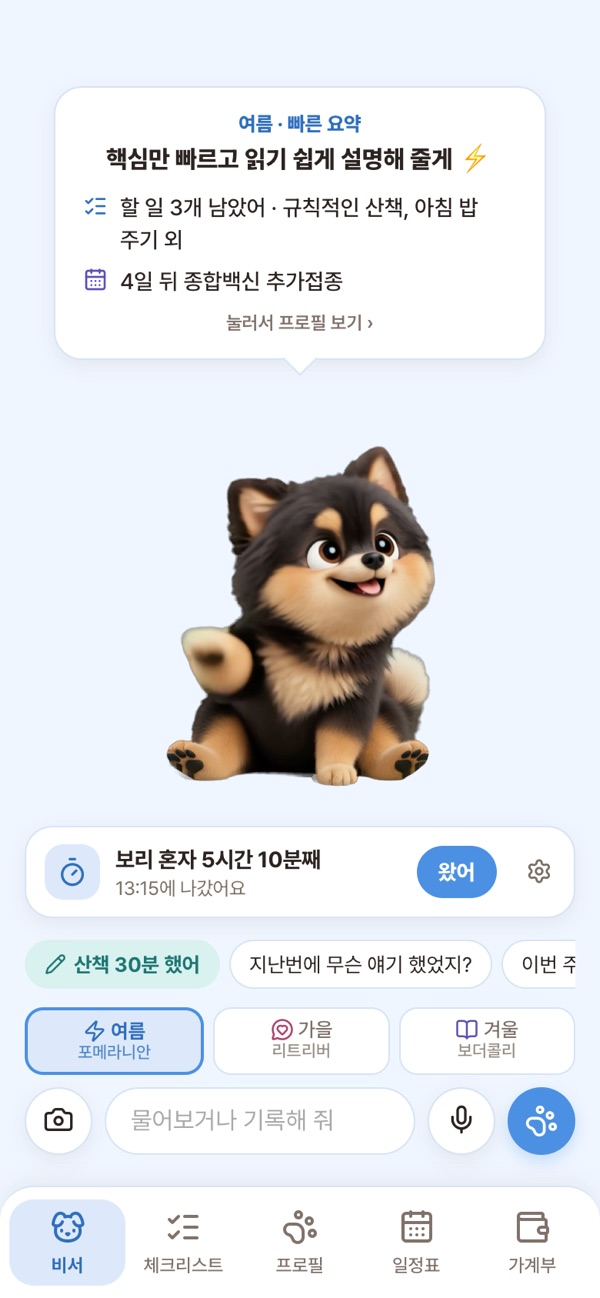
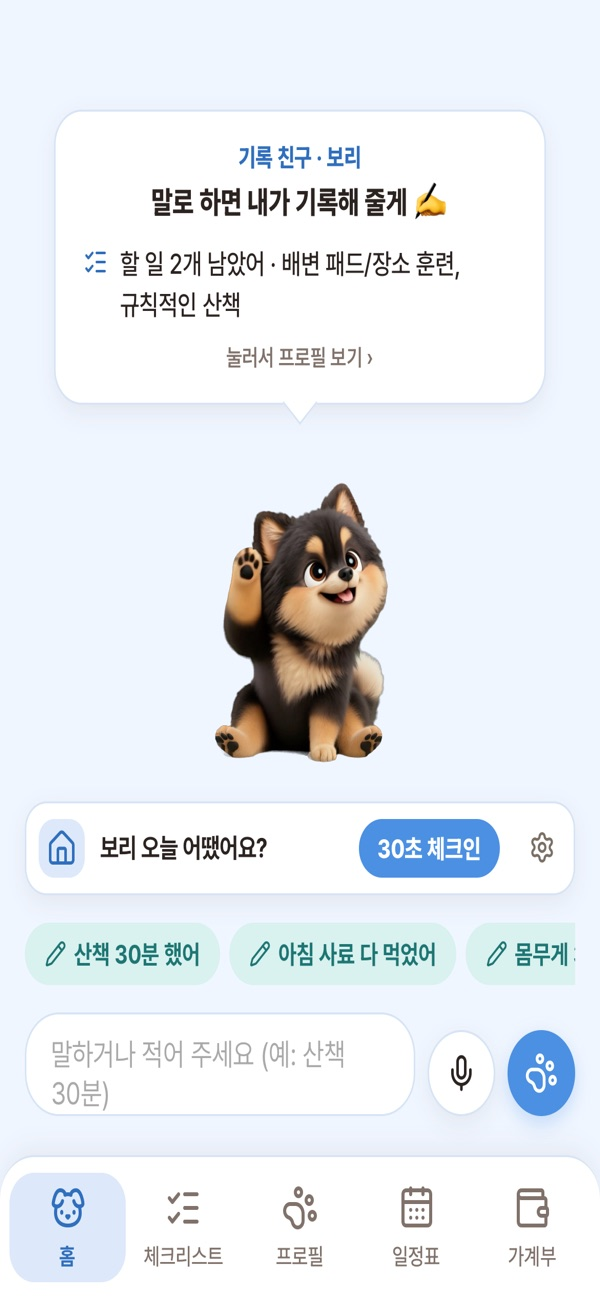
홈페이지 스크린샷 교체(홈 말로 기록·기록 결과·변 체크)

diff --git a/public/intro/guide/index.html b/public/intro/guide/index.html
@@ -68,7 +68,7 @@
             <p class="g-sum">홈은 우리 아이 하루를 말로 남기는 곳이에요. “산책 30분 했어”처럼 말하거나 적으면 알맞은 곳에 알아서 기록돼요.</p>
             <nav class="g-qlist" aria-label="홈 · 말로 기록하기에서 궁금한 것"><a href="#as-home">첫 화면에는 뭐가 보여요?<svg class="ic" aria-hidden="true"><use href="/intro/sprite.svg#i-chev"/></svg></a><a href="#as-outing">강아지 아래 '외출 카드'는 뭐예요?<svg class="ic" aria-hidden="true"><use href="/intro/sprite.svg#i-chev"/></svg></a><a href="#as-checkin">저녁 30초 체크인은 뭐예요?<svg class="ic" aria-hidden="true"><use href="/intro/sprite.svg#i-chev"/></svg></a><a href="#as-record">말로 기록하는 건 어떻게 해요?<svg class="ic" aria-hidden="true"><use href="/intro/sprite.svg#i-chev"/></svg></a><a href="#as-voice">말로 해도 돼요?<svg class="ic" aria-hidden="true"><use href="/intro/sprite.svg#i-chev"/></svg></a><a href="#as-fix">잘못 적었으면 어떻게 고쳐요?<svg class="ic" aria-hidden="true"><use href="/intro/sprite.svg#i-chev"/></svg></a><a href="#as-ask">궁금한 걸 적으면 어떻게 돼요?<svg class="ic" aria-hidden="true"><use href="/intro/sprite.svg#i-chev"/></svg></a><a href="#as-emergency">급한 일이면요?<svg class="ic" aria-hidden="true"><use href="/intro/sprite.svg#i-chev"/></svg></a><a href="#as-safe">멍케어가 진료를 해 주나요?<svg class="ic" aria-hidden="true"><use href="/intro/sprite.svg#i-chev"/></svg></a></nav>
           </div>
-          <figure class="g-sec-shot"><img src="/intro/img/assistant.jpg?v=2" alt="홈 화면 예시" width="300" height="649" loading="lazy" /><figcaption>예시 화면</figcaption></figure>
+          <figure class="g-sec-shot"><img src="/intro/img/assistant.jpg?v=3" alt="홈 화면 예시" width="300" height="649" loading="lazy" /><figcaption>예시 화면</figcaption></figure>
         </header>
         <article class="g-q" id="as-home"><h3>첫 화면에는 뭐가 보여요?</h3><p>강아지가 말풍선으로 <b>오늘 요약</b>을 알려 줘요.</p><ol class="g-steps"><li>오늘 남은 할 일</li><li>다음에 먹일 약</li><li>7일 안에 있는 일정</li></ol><p>말풍선을 누르면 프로필로 가요. 아래 입력칸에 말하거나 적으면 기록이 돼요.</p></article><article class="g-q" id="as-outing"><h3>강아지 아래 '외출 카드'는 뭐예요?</h3><p>밖에 있는 시간이 긴 분을 위한 카드예요. 아침에 한 번, 저녁에 한 번만 누르면 돼요.</p><ol class="g-steps"><li>나갈 때 <b>[다녀올게]</b>를 눌러요. 카드에 <b>“보리 혼자 3시간째”</b>처럼 혼자 있는 시간이 보여요.</li><li>들어오면 <b>[왔어]</b>를 눌러요. 오늘 혼자 있던 시간과 짧은 돌봄 제안이 나와요.</li><li><b>[30초 체크인]</b>으로 오늘 하루를 기록해요.</li></ol><p class="g-tip"><svg class="ic" aria-hidden="true"><use href="/intro/sprite.svg#i-sparkles"/></svg><span><b>알아 두면 좋아요</b> 처음 [다녀올게]를 누르면 <b>평소 외출 시간</b>을 물어봐요. 정해 두면 버튼을 깜빡한 날도 시간을 어림하고, 들어오는 시각 30분 뒤에 체크인 알림이 와요. 나중에 카드 오른쪽 <b>톱니바퀴</b>에서 바꿀 수 있어요.</span></p></article><article class="g-q" id="as-checkin"><h3>저녁 30초 체크인은 뭐예요?</h3><p>버튼만 눌러서 오늘 하루를 한 번에 기록해요. <b>본 것만</b> 누르면 되고, 안 누른 건 기록하지 않아요.</p><dl class="g-table"><div><dt>밥</dt><dd>다 먹었어 / 남겼어 / 안 먹었어</dd></div><div><dt>대변·소변</dt><dd>정상 / 무름 / 설사 / 실수했어 / 못 봤어</dd></div><div><dt>이상한 점</dt><dd>토했어 / 기운 없어 / 물건 망가뜨림 / 많이 짖었대요</dd></div><div><dt>산책</dt><dd>못 했어 / 10분 ~ 1시간</dd></div></dl><p>누른 것은 <b>프로필 건강 기록</b>에 직접 적은 것과 똑같이 저장돼요. 산책을 누르면 체크리스트의 산책도 완료돼요.</p><p class="g-tip"><svg class="ic" aria-hidden="true"><use href="/intro/sprite.svg#i-sparkles"/></svg><span><b>알아 두면 좋아요</b> 체크인을 마치면 완료 표시는 체크리스트 위로 옮겨 가요. 잘못 누른 건 건강 기록에서 고쳐요. 걱정되는 모습이 계속되면 동물병원에 연락해 주세요.</span></p></article><article class="g-q" id="as-record"><h3>말로 기록하는 건 어떻게 해요?</h3><p>친구한테 말하듯 쓰면 돼요. AI가 문장을 기록으로 바꿔서 <b>알맞은 곳에 저장</b>해요. 이렇게 말해 보세요.</p><dl class="g-table"><div><dt>“산책 30분 했어”</dt><dd>건강 수치(산책)</dd></div><div><dt>“사료 3만 원 샀어”</dt><dd>가계부</dd></div><div><dt>“내일 3시 미용 예약”</dt><dd>일정표</dd></div><div><dt>“몸무게 3.2kg 됐어”</dt><dd>체중 기록</dd></div><div><dt>“아침에 노란 토 했어”</dt><dd>건강 기록(증상)</dd></div><div><dt>“병원 다녀왔어, 진료비 8만 원”</dt><dd>병원 진료 기록 + 가계부</dd></div><div><dt>“매달 25일 펫보험 3만 원 나가”</dt><dd>매달 나가는 돈</dd></div><div><dt>“심장약 먹였어”</dt><dd>약 먹인 기록</dd></div></dl><p>저장하면 <b>'앱에 기록했어요'</b>가 나오고, 강아지가 <b>귀여운 한마디와 짧은 팁</b>을 남겨 줘요.</p><p class="g-tip"><svg class="ic" aria-hidden="true"><use href="/intro/sprite.svg#i-sparkles"/></svg><span><b>알아 두면 좋아요</b> 분류가 애매하면 <b>'어느 분류로 적을까요?'</b> 하고 버튼을 보여 줘요. 누르기만 하면 돼요.</span></p></article><article class="g-q" id="as-voice"><h3>말로 해도 돼요?</h3><p>네. 입력칸의 <b>🎤 마이크 버튼</b>을 누르고 말하면 글자로 바뀌어서 기록돼요.</p></article><article class="g-q" id="as-fix"><h3>잘못 적었으면 어떻게 고쳐요?</h3><p>“아까 사료값 3만 5천 원이었어”처럼 말하면 돼요. <b>[고치기] 버튼</b>이 나오고, 누르면 고쳐져요. 지울 때도 똑같이 <b>[지우기] 버튼</b>을 눌러야 지워져요.</p><p class="g-note"><svg class="ic" aria-hidden="true"><use href="/intro/sprite.svg#i-lock"/></svg><span>약을 새로 등록하거나 용량을 바꾸는 건 AI가 하지 않아요. 약 관리에서 처방대로 직접 넣어 주세요.</span></p></article><article class="g-q" id="as-ask"><h3>궁금한 걸 적으면 어떻게 돼요?</h3><p>AI가 답을 지어내지 않아요. 대신 맞는 <b>정보 카드</b>와 <b>가이드북</b> 내용을 찾아 보여 줘요.</p><div class="g-ex"><p class="g-ex-label">이렇게 적어 보세요</p><span>“밥은 하루에 얼마나 줘야 해?”</span><span>“예방접종은 언제 해?”</span><span>“양치는 어떻게 해?”</span></div><p>정보 카드는 <b>WSAVA·Merck 수의학 매뉴얼 같은 공개 수의학 자료</b>를 바탕으로 만들고, 사실을 하나씩 확인한 일반 참고 정보예요.</p></article><article class="g-q" id="as-emergency"><h3>급한 일이면요?</h3><p>초콜릿·포도·자일리톨을 먹었다거나, 경련, 숨쉬기 이상 같은 말이 보이면 <b>“지금 바로 동물병원에 연락하세요”</b>가 먼저 나오고, <b>24시 동물병원 찾기</b> 링크를 보여 줘요.</p><p class="g-note"><svg class="ic" aria-hidden="true"><use href="/intro/sprite.svg#i-lock"/></svg><span>급할 땐 앱보다 동물병원 전화가 먼저예요. 다니는 병원 번호를 미리 저장해 두세요.</span></p></article><article class="g-q" id="as-safe"><h3>멍케어가 진료를 해 주나요?</h3><p class="g-note"><svg class="ic" aria-hidden="true"><use href="/intro/sprite.svg#i-lock"/></svg><span>아니요. 멍케어는 <b>진료(진찰·진단·처방·치료)를 하지 않아요.</b> 기록과 정보를 챙겨 주는 앱이에요. AI는 말한 문장을 기록으로 바꾸고, 보호자가 고른 사진·영상을 참고용으로 확인하는 데만 써요.</span></p><p class="g-tip"><svg class="ic" aria-hidden="true"><use href="/intro/sprite.svg#i-sparkles"/></svg><span><b>알아 두면 좋아요</b> AI 기능을 처음 쓸 때, 기록하려고 말한 문장·음성이나 확인을 고른 사진·영상을 AI 회사로 보내도 되는지 먼저 물어봐요. 동의하지 않으면 보내지 않아요.</span></p></article>
         <a class="g-next" href="#checklist"><span>다음</span><b>체크리스트</b><svg class="ic" aria-hidden="true"><use href="/intro/sprite.svg#i-chev"/></svg></a>
@@ -83,7 +83,7 @@
           </div>
           <figure class="g-sec-shot"><img src="/intro/img/checklist.jpg" alt="체크리스트 화면 예시" width="300" height="649" loading="lazy" /><figcaption>예시 화면</figcaption></figure>
         </header>
-        <article class="g-q" id="ck-today"><h3>오늘 할 일은 누가 정해요?</h3><p>멍케어가 <b>우리 아이 나이와 견종</b>을 보고 정해요. 예를 들어 아기 강아지는 사회화·배변 훈련, 다 큰 강아지는 산책·목욕 같은 일이 나와요.</p><p>다 한 일은 <b>체크</b>하세요. 위쪽 동그라미가 얼마나 했는지 보여 줘요.</p></article><article class="g-q" id="ck-hide"><h3>필요 없는 할 일은 지울 수 있어요?</h3><p>할 일 오른쪽 <b>'숨기기'</b>를 누르면 안 보여요. 다시 보고 싶으면 카드 아래 <b>'숨긴 할 일'</b>에서 '다시 보이기'를 누르세요.</p></article><article class="g-q" id="ck-auto"><h3>체크 안 했는데 완료됐어요</h3><p>산책을 기록하면 <b>산책 할 일은 저절로 완료</b>돼요. 두 번 체크하지 않아도 되게 한 거예요.</p></article><article class="g-q" id="ck-meal"><h3>밥 시간은 어떻게 정해요?</h3><ol class="g-steps"><li>체크리스트 위 <b>사료 계산기</b>를 눌러요.</li><li><b>급여 시각</b>을 넣고 저장해요. (예: 08:00, 18:00)</li><li>이제 '아침 밥 주기', '저녁 밥 주기'가 할 일로 생기고, 그 시간에 알림이 와요.</li></ol></article><article class="g-q" id="ck-week"><h3>'이번 주 핵심'은 뭐예요?</h3><p>이번 주에 특히 챙기면 좋은 관리를 알려 줘요. 아래 <b>'곧 시작하는 관리'</b>는 몇 주 뒤부터 필요한 일을 미리 알려 줘요.</p></article><article class="g-q" id="ck-health"><h3>건강 체크는 뭐예요?</h3><figure class="g-shot"><img src="/intro/img/healthcheck.jpg" alt="건강 체크 화면 예시" width="300" height="649" loading="lazy" /><figcaption>건강 체크 화면 예시</figcaption></figure><dl class="g-table"><div><dt>변 체크</dt><dd>변 <b>모양(1~7)·색·신호</b>를 보호자가 직접 골라 기록해요.</dd></div><div><dt>컨디션 체크</dt><dd><b>컨디션 항목</b>을 보호자가 직접 골라 기록해요.</dd></div></dl><p>기본은 직접 고르기이고 무료예요. 원하면 <b>'AI로 사진·영상 확인'</b>을 눌러 보이는 모습을 참고용으로 정리받을 수 있어요(하루 2번).</p><p>고른 내용에 따라 <b>'이럴 땐 병원에 연락'</b> 안내가 함께 나와요. 정해진 기준에 따라 보여 주는 안내예요.</p><p class="g-note"><svg class="ic" aria-hidden="true"><use href="/intro/sprite.svg#i-lock"/></svg><span>병명을 판단하지 않는 참고용이에요. 걱정되면 동물병원에 연락해 주세요.</span></p></article><article class="g-q" id="ck-feed"><h3>사료 계산기는 어떻게 써요?</h3><figure class="g-shot"><img src="/intro/img/feeding.jpg" alt="사료 계산기 화면 예시" width="300" height="649" loading="lazy" /><figcaption>사료 계산기 화면 예시</figcaption></figure><ol class="g-steps"><li>나이·몸무게로 <b>하루 급여량</b>과 <b>한 끼 양</b>을 계산해 줘요. 큰술로도 알려 줘요.</li><li><b>먹이는 사료</b>에 이름을 넣고 '정보 찾기'를 누르면 열량을 찾아 줘요.</li><li>가장 정확한 건 <b>사료 봉투 뒷면 사진</b>이에요. 찍으면 적힌 열량을 읽어 와요.</li><li>변이 무르거나 단단하면 '배변 상태'를 고르세요. 계산에 반영돼요.</li></ol><p class="g-tip"><svg class="ic" aria-hidden="true"><use href="/intro/sprite.svg#i-sparkles"/></svg><span><b>알아 두면 좋아요</b> 어린 강아지는 밥 시간 30분 전에 '사료 불리기' 알림도 와요.</span></p></article><article class="g-q" id="ck-food"><h3>사료가 떨어지기 전에 알려 줘요?</h3><p>네. 사료 계산기의 <b>사료 남은 양</b>에서 봉투 무게를 고르고 <b>[오늘 새 봉투 뜯었어요]</b>를 누르세요. 하루 급여량으로 나눠 <b>“약 25일 남았어요”</b>처럼 보여 줘요.</p><ol class="g-steps"><li>7일 안으로 남으면 체크리스트 맨 위에 알림 띠가 떠요.</li><li>떨어지기 <b>5일 전 점심(12:30)</b>에 “주문해 둘까요?” 알림이 와요.</li><li><b>하루 전 점심</b>에 한 번 더 알려 줘요.</li></ol><p class="g-tip"><svg class="ic" aria-hidden="true"><use href="/intro/sprite.svg#i-sparkles"/></svg><span><b>알아 두면 좋아요</b> 간식·흘린 양은 빼고 계산한 어림이에요. 새 봉투를 뜯을 때마다 버튼을 눌러 주세요.</span></p></article><article class="g-q" id="ck-alarm"><h3>알림·알람은 어떻게 맞춰요?</h3><figure class="g-shot"><img src="/intro/img/alarms.jpg" alt="알림·알람 화면 예시" width="300" height="649" loading="lazy" /><figcaption>알림·알람 화면 예시</figcaption></figure><ol class="g-steps"><li><b>알림 켜기</b>를 눌러 알림을 허락해요.</li><li><b>새 알람 추가</b>에 제목과 시각을 넣어요.</li><li><b>매일</b> 울릴지, <b>하루만</b> 울릴지 골라요.</li></ol><p class="g-tip"><svg class="ic" aria-hidden="true"><use href="/intro/sprite.svg#i-sparkles"/></svg><span><b>알아 두면 좋아요</b> 아이폰은 홈 화면에 설치한 멍케어에서만 알림이 와요. 소리는 휴대폰 알림음을 따라요.</span></p></article>
+        <article class="g-q" id="ck-today"><h3>오늘 할 일은 누가 정해요?</h3><p>멍케어가 <b>우리 아이 나이와 견종</b>을 보고 정해요. 예를 들어 아기 강아지는 사회화·배변 훈련, 다 큰 강아지는 산책·목욕 같은 일이 나와요.</p><p>다 한 일은 <b>체크</b>하세요. 위쪽 동그라미가 얼마나 했는지 보여 줘요.</p></article><article class="g-q" id="ck-hide"><h3>필요 없는 할 일은 지울 수 있어요?</h3><p>할 일 오른쪽 <b>'숨기기'</b>를 누르면 안 보여요. 다시 보고 싶으면 카드 아래 <b>'숨긴 할 일'</b>에서 '다시 보이기'를 누르세요.</p></article><article class="g-q" id="ck-auto"><h3>체크 안 했는데 완료됐어요</h3><p>산책을 기록하면 <b>산책 할 일은 저절로 완료</b>돼요. 두 번 체크하지 않아도 되게 한 거예요.</p></article><article class="g-q" id="ck-meal"><h3>밥 시간은 어떻게 정해요?</h3><ol class="g-steps"><li>체크리스트 위 <b>사료 계산기</b>를 눌러요.</li><li><b>급여 시각</b>을 넣고 저장해요. (예: 08:00, 18:00)</li><li>이제 '아침 밥 주기', '저녁 밥 주기'가 할 일로 생기고, 그 시간에 알림이 와요.</li></ol></article><article class="g-q" id="ck-week"><h3>'이번 주 핵심'은 뭐예요?</h3><p>이번 주에 특히 챙기면 좋은 관리를 알려 줘요. 아래 <b>'곧 시작하는 관리'</b>는 몇 주 뒤부터 필요한 일을 미리 알려 줘요.</p></article><article class="g-q" id="ck-health"><h3>건강 체크는 뭐예요?</h3><figure class="g-shot"><img src="/intro/img/healthcheck.jpg?v=3" alt="건강 체크 화면 예시" width="300" height="649" loading="lazy" /><figcaption>건강 체크 화면 예시</figcaption></figure><dl class="g-table"><div><dt>변 체크</dt><dd>변 <b>모양(1~7)·색·신호</b>를 보호자가 직접 골라 기록해요.</dd></div><div><dt>컨디션 체크</dt><dd><b>컨디션 항목</b>을 보호자가 직접 골라 기록해요.</dd></div></dl><p>기본은 직접 고르기이고 무료예요. 원하면 <b>'AI로 사진·영상 확인'</b>을 눌러 보이는 모습을 참고용으로 정리받을 수 있어요(하루 2번).</p><p>고른 내용에 따라 <b>'이럴 땐 병원에 연락'</b> 안내가 함께 나와요. 정해진 기준에 따라 보여 주는 안내예요.</p><p class="g-note"><svg class="ic" aria-hidden="true"><use href="/intro/sprite.svg#i-lock"/></svg><span>병명을 판단하지 않는 참고용이에요. 걱정되면 동물병원에 연락해 주세요.</span></p></article><article class="g-q" id="ck-feed"><h3>사료 계산기는 어떻게 써요?</h3><figure class="g-shot"><img src="/intro/img/feeding.jpg" alt="사료 계산기 화면 예시" width="300" height="649" loading="lazy" /><figcaption>사료 계산기 화면 예시</figcaption></figure><ol class="g-steps"><li>나이·몸무게로 <b>하루 급여량</b>과 <b>한 끼 양</b>을 계산해 줘요. 큰술로도 알려 줘요.</li><li><b>먹이는 사료</b>에 이름을 넣고 '정보 찾기'를 누르면 열량을 찾아 줘요.</li><li>가장 정확한 건 <b>사료 봉투 뒷면 사진</b>이에요. 찍으면 적힌 열량을 읽어 와요.</li><li>변이 무르거나 단단하면 '배변 상태'를 고르세요. 계산에 반영돼요.</li></ol><p class="g-tip"><svg class="ic" aria-hidden="true"><use href="/intro/sprite.svg#i-sparkles"/></svg><span><b>알아 두면 좋아요</b> 어린 강아지는 밥 시간 30분 전에 '사료 불리기' 알림도 와요.</span></p></article><article class="g-q" id="ck-food"><h3>사료가 떨어지기 전에 알려 줘요?</h3><p>네. 사료 계산기의 <b>사료 남은 양</b>에서 봉투 무게를 고르고 <b>[오늘 새 봉투 뜯었어요]</b>를 누르세요. 하루 급여량으로 나눠 <b>“약 25일 남았어요”</b>처럼 보여 줘요.</p><ol class="g-steps"><li>7일 안으로 남으면 체크리스트 맨 위에 알림 띠가 떠요.</li><li>떨어지기 <b>5일 전 점심(12:30)</b>에 “주문해 둘까요?” 알림이 와요.</li><li><b>하루 전 점심</b>에 한 번 더 알려 줘요.</li></ol><p class="g-tip"><svg class="ic" aria-hidden="true"><use href="/intro/sprite.svg#i-sparkles"/></svg><span><b>알아 두면 좋아요</b> 간식·흘린 양은 빼고 계산한 어림이에요. 새 봉투를 뜯을 때마다 버튼을 눌러 주세요.</span></p></article><article class="g-q" id="ck-alarm"><h3>알림·알람은 어떻게 맞춰요?</h3><figure class="g-shot"><img src="/intro/img/alarms.jpg" alt="알림·알람 화면 예시" width="300" height="649" loading="lazy" /><figcaption>알림·알람 화면 예시</figcaption></figure><ol class="g-steps"><li><b>알림 켜기</b>를 눌러 알림을 허락해요.</li><li><b>새 알람 추가</b>에 제목과 시각을 넣어요.</li><li><b>매일</b> 울릴지, <b>하루만</b> 울릴지 골라요.</li></ol><p class="g-tip"><svg class="ic" aria-hidden="true"><use href="/intro/sprite.svg#i-sparkles"/></svg><span><b>알아 두면 좋아요</b> 아이폰은 홈 화면에 설치한 멍케어에서만 알림이 와요. 소리는 휴대폰 알림음을 따라요.</span></p></article>
         <a class="g-next" href="#profile"><span>다음</span><b>프로필</b><svg class="ic" aria-hidden="true"><use href="/intro/sprite.svg#i-chev"/></svg></a>
       </section>
       <section class="g-sec" id="profile" aria-labelledby="profile-t">

diff --git a/public/intro/index.html b/public/intro/index.html
@@ -93,7 +93,7 @@
         <div class="demo" id="demo">
           <p class="demo-hint" aria-hidden="true"><span class="hand">👆</span> 아래 탭을 눌러 보세요</p>
           <div class="phone demo-phone">
-            <div class="screens"><img class="scr on" src="/intro/img/assistant.jpg?v=2" alt="" width="300" height="649" fetchpriority="high" /><img class="scr" src="/intro/img/checklist.jpg" alt="" width="300" height="649" loading="lazy" /><img class="scr" src="/intro/img/profile.jpg" alt="" width="300" height="649" loading="lazy" /><img class="scr" src="/intro/img/calendar.jpg" alt="" width="300" height="649" loading="lazy" /><img class="scr" src="/intro/img/budget.jpg" alt="" width="300" height="649" loading="lazy" /></div>
+            <div class="screens"><img class="scr on" src="/intro/img/assistant.jpg?v=3" alt="" width="300" height="649" fetchpriority="high" /><img class="scr" src="/intro/img/checklist.jpg" alt="" width="300" height="649" loading="lazy" /><img class="scr" src="/intro/img/profile.jpg" alt="" width="300" height="649" loading="lazy" /><img class="scr" src="/intro/img/calendar.jpg" alt="" width="300" height="649" loading="lazy" /><img class="scr" src="/intro/img/budget.jpg" alt="" width="300" height="649" loading="lazy" /></div>
             <span class="tag">간략 미리보기</span>
             <div class="nav-glow" aria-hidden="true"><span>여기를 눌러 보세요</span></div>
             <div class="hots" role="tablist" aria-label="멍케어 기능 둘러보기"><button type="button" role="tab" id="tab-assistant" class="hot" aria-selected="true" aria-controls="panel-assistant" tabindex="0"><span class="sr">홈(말로 기록) 기능 설명 보기</span><i class="ping" aria-hidden="true"></i></button><button type="button" role="tab" id="tab-checklist" class="hot" aria-selected="false" aria-controls="panel-checklist" tabindex="-1"><span class="sr">체크리스트 기능 설명 보기</span><i class="ping" aria-hidden="true"></i></button><button type="button" role="tab" id="tab-profile" class="hot" aria-selected="false" aria-controls="panel-profile" tabindex="-1"><span class="sr">프로필 기능 설명 보기</span><i class="ping" aria-hidden="true"></i></button><button type="button" role="tab" id="tab-calendar" class="hot" aria-selected="false" aria-controls="panel-calendar" tabindex="-1"><span class="sr">일정표 기능 설명 보기</span><i class="ping" aria-hidden="true"></i></button><button type="button" role="tab" id="tab-budget" class="hot" aria-selected="false" aria-controls="panel-budget" tabindex="-1"><span class="sr">가계부 기능 설명 보기</span><i class="ping" aria-hidden="true"></i></button></div>
@@ -121,7 +121,7 @@
               <div class="svc-dogs"><p class="svc-dogs-title">멍케어를 안내하는 세 친구</p><div class="svc-dogcard"><img src="/intro/img/dog-yeoreum-sit.png" alt="포메라니안 여름" width="120" height="120" loading="lazy" /><div><p class="svc-dogname">여름 <span>포메라니안</span></p><p class="svc-dogrole">기록 담당</p><p>말로 한 기록을 반겨 줘요.</p></div></div><div class="svc-dogcard"><img src="/intro/img/dog-gaeul-sit.png" alt="리트리버 가을" width="120" height="120" loading="lazy" /><div><p class="svc-dogname">가을 <span>리트리버</span></p><p class="svc-dogrole">할 일 담당</p><p>오늘 챙길 일을 알려 줘요.</p></div></div><div class="svc-dogcard"><img src="/intro/img/dog-gyeoul-sit.png" alt="보더콜리 겨울" width="120" height="120" loading="lazy" /><div><p class="svc-dogname">겨울 <span>보더콜리</span></p><p class="svc-dogrole">건강 기록 담당</p><p>병원에 보여 줄 기록을 챙겨요.</p></div></div></div>
               <p class="svc-note">정보 카드는 WSAVA·Merck 수의학 매뉴얼 같은 공개 수의학 자료를 바탕으로 만들고 사실을 확인한 일반 참고 정보예요. AI는 질문에 답하지 않고, 말한 문장을 기록으로 바꾸는 데만 써요. 응급일 수 있는 말이 보이면 24시 동물병원 찾기를 먼저 보여 드려요.</p>
             </div>
-            <div class="svc-shots"><figure class="phone mini"><img src="/intro/img/assistant.jpg?v=2" alt="홈 화면 예시" width="300" height="649" loading="lazy" /></figure><figure class="phone mini"><img src="/intro/img/chat.jpg" alt="홈 화면 예시" width="300" height="649" loading="lazy" /></figure><span class="tag">예시 화면</span></div>
+            <div class="svc-shots"><figure class="phone mini"><img src="/intro/img/assistant.jpg?v=3" alt="홈 화면 예시" width="300" height="649" loading="lazy" /></figure><figure class="phone mini"><img src="/intro/img/chat.jpg?v=3" alt="홈 화면 예시" width="300" height="649" loading="lazy" /></figure><span class="tag">예시 화면</span></div>
             <div class="svc-foot">
               <a class="btn btn-lg btn-ghost" href="/intro/guide/#assistant"><svg class="ic" aria-hidden="true"><use href="/intro/sprite.svg#i-book"/></svg>자세한 설명서 보기</a>
               <button type="button" class="btn btn-lg svc-back">휴대폰으로 돌아가기</button>
@@ -138,7 +138,7 @@
             </div>
             <div class="svc-body">
               <ul class="svc-cards"><li><b>나이·견종 맞춤 할 일</b><span>오늘 할 일과 <b>이번 주 핵심</b>이 체크리스트로 나와요. 필요 없는 건 숨길 수 있어요.</span></li><li><b>기록하면 저절로 완료</b><span>산책을 기록하면 산책 할 일은 따로 체크하지 않아도 완료돼요.</span></li></ul>
-              <div class="svc-spots"><div class="spot"><figure class="phone mini"><img src="/intro/img/healthcheck.jpg" alt="건강 체크 화면 예시" width="300" height="649" loading="lazy" /><span class="tag">예시 화면</span></figure><div><b>건강 체크</b><p><b>변 체크</b>는 모양(1~7)·색·신호를, <b>컨디션 체크</b>는 항목을 보호자가 직접 골라요. 원하면 사진·영상을 AI로 확인할 수 있고(참고용), 병원에 연락할 신호면 먼저 알려 줘요.</p></div></div><div class="spot"><figure class="phone mini"><img src="/intro/img/feeding.jpg" alt="사료 계산기 화면 예시" width="300" height="649" loading="lazy" /><span class="tag">예시 화면</span></figure><div><b>사료 계산기</b><p>나이·몸무게로 <b>하루 급여량</b>을 계산하고, 사료 봉투 사진으로 열량을 읽어 와요. 밥 시간을 정하면 할 일과 알림이 생겨요.</p></div></div><div class="spot"><figure class="phone mini"><img src="/intro/img/alarms.jpg" alt="알림·알람 화면 예시" width="300" height="649" loading="lazy" /><span class="tag">예시 화면</span></figure><div><b>알림·알람</b><p>약·밥·산책처럼 <b>원하는 시간에 알림</b>을 받아요. 하루만 울리는 알람도 만들 수 있어요.</p></div></div></div>
+              <div class="svc-spots"><div class="spot"><figure class="phone mini"><img src="/intro/img/healthcheck.jpg?v=3" alt="건강 체크 화면 예시" width="300" height="649" loading="lazy" /><span class="tag">예시 화면</span></figure><div><b>건강 체크</b><p><b>변 체크</b>는 모양(1~7)·색·신호를, <b>컨디션 체크</b>는 항목을 보호자가 직접 골라요. 원하면 사진·영상을 AI로 확인할 수 있고(참고용), 병원에 연락할 신호면 먼저 알려 줘요.</p></div></div><div class="spot"><figure class="phone mini"><img src="/intro/img/feeding.jpg" alt="사료 계산기 화면 예시" width="300" height="649" loading="lazy" /><span class="tag">예시 화면</span></figure><div><b>사료 계산기</b><p>나이·몸무게로 <b>하루 급여량</b>을 계산하고, 사료 봉투 사진으로 열량을 읽어 와요. 밥 시간을 정하면 할 일과 알림이 생겨요.</p></div></div><div class="spot"><figure class="phone mini"><img src="/intro/img/alarms.jpg" alt="알림·알람 화면 예시" width="300" height="649" loading="lazy" /><span class="tag">예시 화면</span></figure><div><b>알림·알람</b><p>약·밥·산책처럼 <b>원하는 시간에 알림</b>을 받아요. 하루만 울리는 알람도 만들 수 있어요.</p></div></div></div>
             </div>
             <div class="svc-shots"><figure class="phone mini"><img src="/intro/img/checklist.jpg" alt="체크리스트 화면 예시" width="300" height="649" loading="lazy" /></figure><span class="tag">예시 화면</span></div>
             <div class="svc-foot">

diff --git a/intro-src/guide_content.py b/intro-src/guide_content.py
@@ -38,7 +38,7 @@ SECTIONS = [
   ]),
  dict(id="assistant", icon="message", title="홈 · 말로 기록하기", short="말하거나 적으면 알아서 기록",
   summary="홈은 우리 아이 하루를 말로 남기는 곳이에요. “산책 30분 했어”처럼 말하거나 적으면 알맞은 곳에 알아서 기록돼요.",
-  img=("assistant.jpg?v=2","홈 화면 예시"),
+  img=("assistant.jpg?v=3","홈 화면 예시"),
   qs=[
    ("as-home","첫 화면에는 뭐가 보여요?",[
      ("p","강아지가 말풍선으로 <b>오늘 요약</b>을 알려 줘요."),
@@ -104,7 +104,7 @@ SECTIONS = [
      ("p","이번 주에 특히 챙기면 좋은 관리를 알려 줘요. 아래 <b>'곧 시작하는 관리'</b>는 몇 주 뒤부터 필요한 일을 미리 알려 줘요."),
    ]),
    ("ck-health","건강 체크는 뭐예요?",[
-     ("img","healthcheck.jpg","건강 체크 화면 예시"),
+     ("img","healthcheck.jpg?v=3","건강 체크 화면 예시"),
      ("table",[("변 체크","변 <b>모양(1~7)·색·신호</b>를 보호자가 직접 골라 기록해요."),("컨디션 체크","<b>컨디션 항목</b>을 보호자가 직접 골라 기록해요.")]),
      ("p","기본은 직접 고르기이고 무료예요. 원하면 <b>'AI로 사진·영상 확인'</b>을 눌러 보이는 모습을 참고용으로 정리받을 수 있어요(하루 2번)."),
      ("p","고른 내용에 따라 <b>'이럴 땐 병원에 연락'</b> 안내가 함께 나와요. 정해진 기준에 따라 보여 주는 안내예요."),
